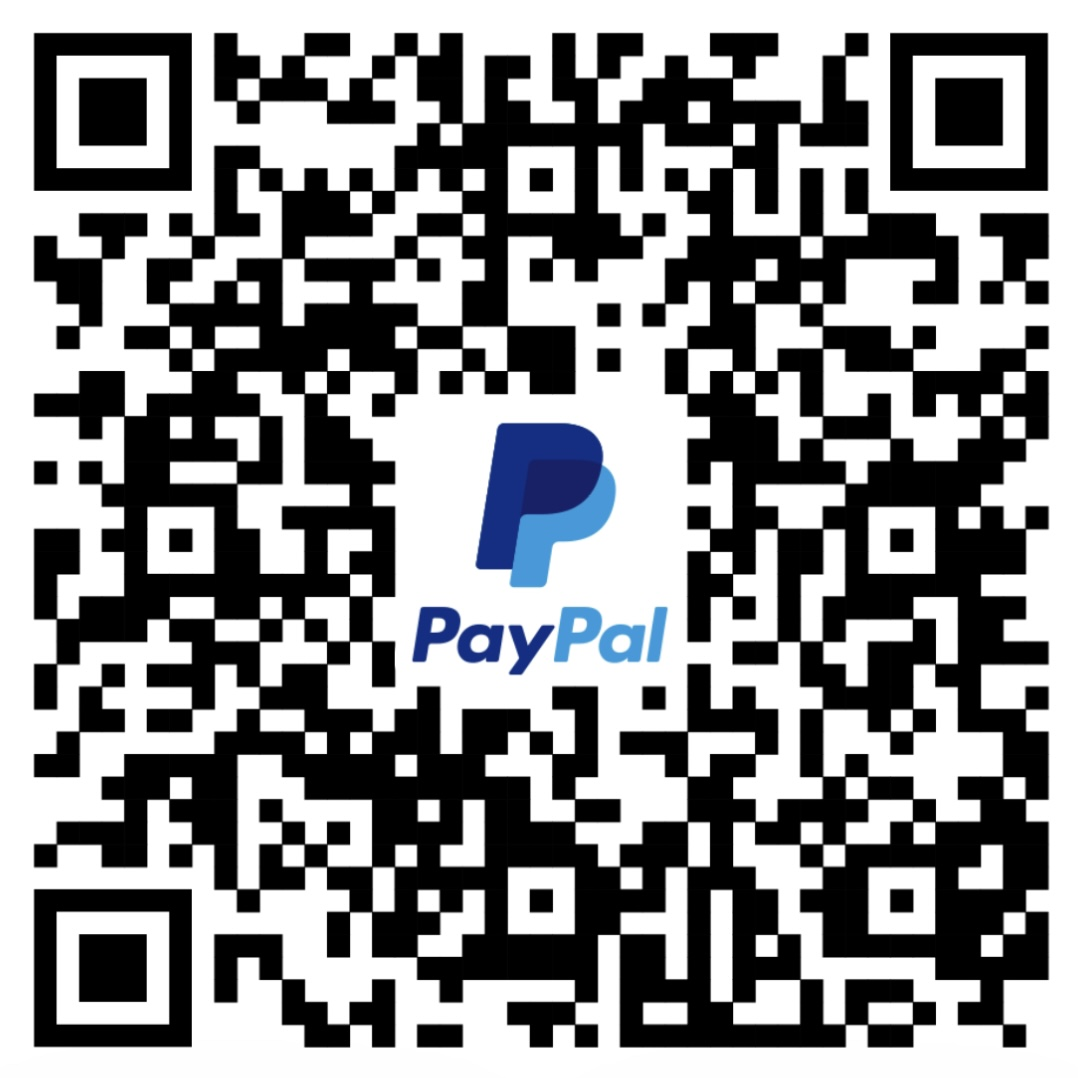
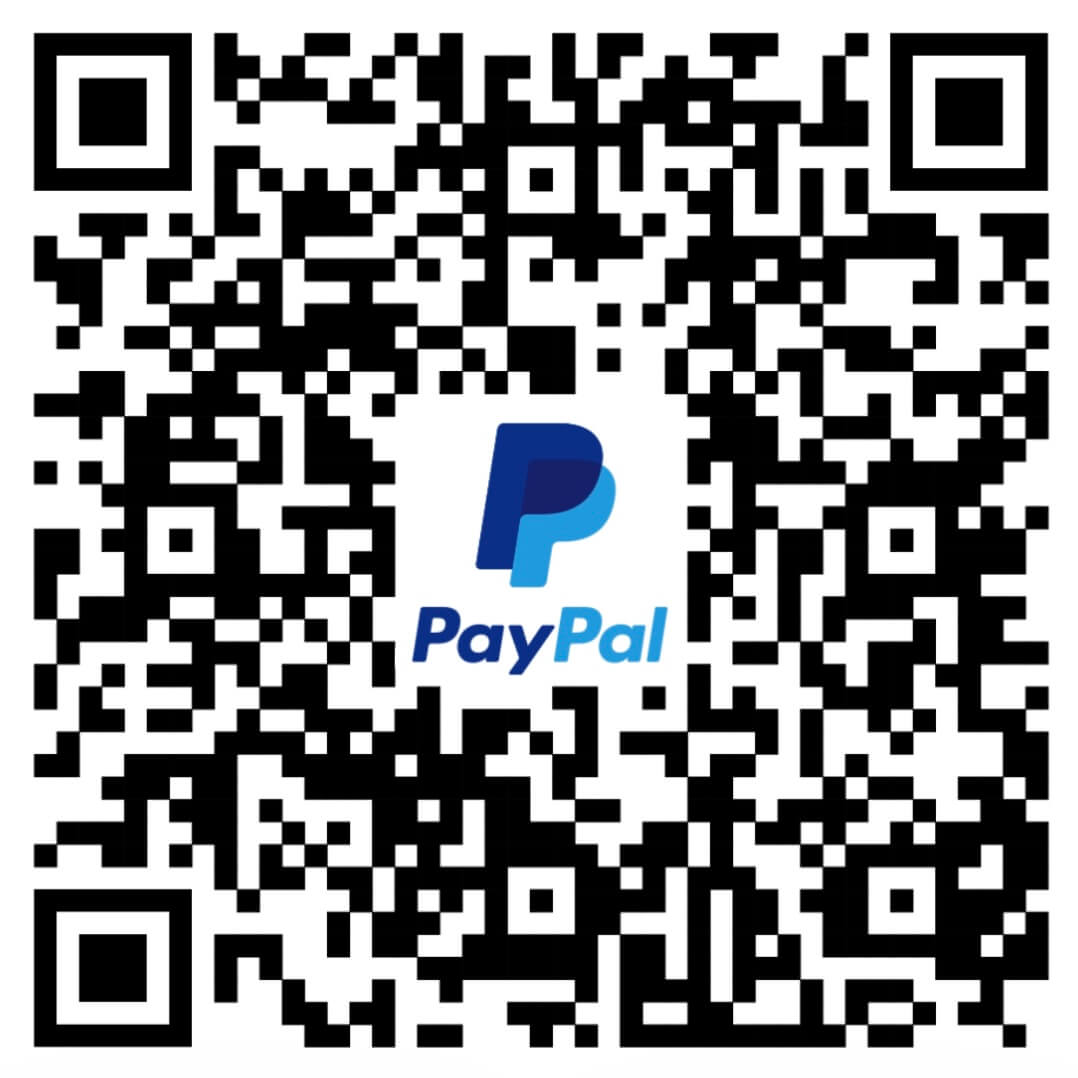
changed image src and compressed

Changed region(s): [[0.4592, 0.4286, 0.5816, 0.551], [0.4898, 0.551, 0.6122, 0.6122]]

diff --git a/emfas-site/src/pages/Home.js b/emfas-site/src/pages/Home.js
@@ -73,7 +73,7 @@ export default function Home(){
 
                     </div>
                     <div className="about-ems-img">
-                        <img src={truck_img} className="about-img"></img>
+                        <img src={require("../images/truck.png")} className="about-img" alt="loading"></img>
                     </div>
                 </div>
 
@@ -81,7 +81,7 @@ export default function Home(){
                     
 
                     <div className="wmems-img">
-                        <img src={truck_event} className="w-img"></img>
+                        <img src={require("../images/wwd.png")} className="w-img" alt="loading"></img>
                     </div>
                     <div className="wmems">
                         <h1>What is WMEMS?</h1>
@@ -108,7 +108,7 @@ export default function Home(){
 
                     </div>
                     <div className="about-ems-img">
-                        <img src={truck_line} className="w-img"></img>
+                        <img src={require("../images/truck_lineup.png")} className="w-img" alt="loading"></img>
                     
                     </div>
                 </div>
@@ -132,7 +132,7 @@ export default function Home(){
                                 <td>Calls Taken</td>
                                 <td>Miles Driven</td>
                             </tr>
-                            <tr>
+                            <tr className="stats">
                                 <th>--- mins</th>
                                 <th>--- calls</th>
                                 <th>--- miles</th>
@@ -159,7 +159,7 @@ export default function Home(){
 
                     </div>
                     <div className="about-ems-img">
-                        <img src={truck_img} className="about-img"></img>
+                        <img src={require("../images/truck.png")} className="about-img" alt="loading"></img>
                     </div>
                 </div>
 
@@ -167,7 +167,7 @@ export default function Home(){
                     
 
                     <div className="wmems-img">
-                        <img src={truck_event} className="w-img"></img>
+                        <img src={require("../images/wwd.png")} className="w-img" alt="loading"></img>
                     </div>
                     <div className="wmems">
                         <h1>What is WMEMS?</h1>
@@ -194,7 +194,7 @@ export default function Home(){
 
                     </div>
                     <div className="about-ems-img">
-                        <img src={truck_line} className="w-img"></img>
+                        <img  src={require("../images/truck_lineup.png")} className="w-img"></img>
                     
                     </div>
                 </div>

diff --git a/emfas-site/src/styles/Home.css b/emfas-site/src/styles/Home.css
@@ -276,7 +276,7 @@ img{
         margin-top: 1em;
         min-height:10em;
         max-height:50em;
-        max-width: 90%;
+        max-width: 85%;
         display: flex;
         flex-flow: column;
         line-height: 20em;
@@ -302,7 +302,7 @@ img{
 
         min-height:10em;
         max-height:50em;
-        min-width: 90%;
+        min-width: 85%;
         background-color: #E8E8EF;
         display: flex;
         flex-flow: column;
@@ -342,7 +342,7 @@ img{
         position: relative;
         display: inline-block;
         min-height: 100%;
-        max-width:90%;
+        max-width:85%;
         margin: 0 auto;
         line-height: normal;
         overflow: hidden;
@@ -362,7 +362,7 @@ img{
 
         min-height:10em;
         max-height:50em;
-        min-width: 90%;
+        min-width: 85%;
         background-color: #E8E8EF;
         display: flex;
         flex-flow: column;
@@ -423,7 +423,7 @@ img{
 
         min-height:10em;
         max-height:50em;
-        min-width: 90%;
+        min-width: 85%;
         background-color: #E8E8EF;
         display: flex;
         flex-flow: column;

diff --git a/emfas-site/src/pages/Donate.js b/emfas-site/src/pages/Donate.js
@@ -33,8 +33,8 @@ export default function Donate(){
 
                 <div className="paypal">
                     <div className="img">
-                        <a href="https://www.paypal.com/donate/?hosted_button_id=7HT85HQVJCXAQ"><img src={paypal_btn}></img></a>
-                        <a href="https://www.paypal.com/donate/?hosted_button_id=7HT85HQVJCXAQ"><img src={paypal_img}></img></a>
+                        <a href="https://www.paypal.com/donate/?hosted_button_id=7HT85HQVJCXAQ"><img src={require("../images/paypal_btn.png")} alt="Paypal"></img></a>
+                        <a href="https://www.paypal.com/donate/?hosted_button_id=7HT85HQVJCXAQ"><img src={require("../images/paypal_code.png")} alt="Paypal"></img></a>
                     </div>
                         
                 </div>

diff --git a/emfas-site/src/pages/Officers.js b/emfas-site/src/pages/Officers.js
@@ -52,7 +52,7 @@ export default function Officers(){
                     
                     </table>
     
-                    <img src={flag_truck} className="flag-truck"></img>
+                    <img src={require("../images/truck_with_flag.png")} className="flag-truck" alt="loading"></img>
                     
                 </div>
             
@@ -85,7 +85,7 @@ export default function Officers(){
                     
                     </table>
     
-                    <img src={flag_truck} className="flag-truck"></img>
+                    <img src={require("../images/truck_with_flag.png")} className="flag-truck" alt="loading"></img>
                     
                 </div>
             

diff --git a/emfas-site/src/components/nav.js b/emfas-site/src/components/nav.js
@@ -18,7 +18,7 @@ export default function Navbar() {
     
     <header className="nav" id="nav">
      
-      <img src={logo} className="nav-logo"/> 
+      <img src={require('../images/emfas_logo.png')} className="nav-logo"/> 
 
       <div className="rect1">&nbsp;</div>
       <div className="rect2">&nbsp;</div>
